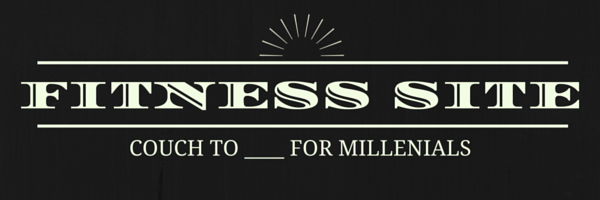
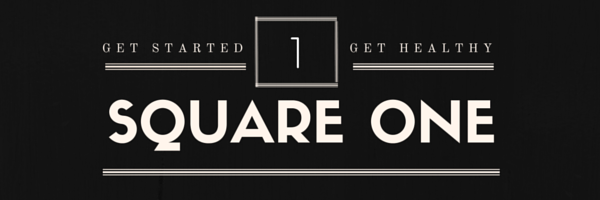
Final Update
Firefox bug, new name, header

Changed region(s): [[0.03, 0.06, 0.99, 0.81], [0.15, 0.84, 0.84, 0.9]]

diff --git a/diet.html b/diet.html
@@ -16,18 +16,18 @@
 	<head profile="http://www.w3.org/2005/10/profile">
 <link rel="icon" 
       type="image/png" 
-      href="images\favicon.png">
+      href="images/favicon.png">
   </head>
   <body>
   <div id="banner">
-  <img src="images\ex_banner.png" alt="Fitness Site">
+  <img src="images/ex_banner.png" alt="Fitness Site">
   </div>
   <div id="wrapper">
      <div id="sidebar">
 			<div id="d1"><a href="index.html"><h1 style="text-decoration: none">Home</h1></a></div>
 			<div id="d2"><a href="stretching.html"><h1 style="text-decoration: none">Stretching</h1></a>
-			<div><a href="stretching.html#officestretch"><h2>Gym Routine</h2></a></div>
-				<div><a href="stretching.html#gymstretch"><h2>Office Routine</h2></a></div>
+			<div><a href="stretching.html#gymstretch"><h2>Gym Routine</h2></a></div>
+				<div><a href="stretching.html#officestretch"><h2>Office Routine</h2></a></div>
 				</div>
 			<div id="d3"><a href="exercise.html"><h1>Exercise</h1></a></div>
 			<div id="d4"><a href="lifestyle.html"><h1>Lifestyle</h1></a></div>
@@ -51,7 +51,7 @@
 		<div class="groupA">
 		<p style="float:left; width:48%; padding-right: 2%;">Those looking to <b>build muscle</b> should have a diet consisting of 25-50% protein, 30-60% carbohydrates, and 10-20% fats. This diet should be combined with rigorous strength training as detailed in <a href="exercise.html">Exercise</a>.
 		Building muscle depends as heavily on your workouts as your commitment to your diet. Maximizing your gains will depend on how you <a href="DietBuff.html" alt="Building Muscle Diet Plan"> manage your calories</a>.</p>
-		<img style="float:right; width:48%;" src="images\plate_gain.png" alt="Plate" >
+		<img style="float:right; width:48%;" src="images/plate_gain.png" alt="Plate" >
 		</div>
 		
 		<hr>
@@ -59,14 +59,14 @@
 		<div class="groupB">
 		<p style="float:right; width:48%;">Those looking to <b>lose fat</b> should have a diet consisting of 50% protein, 35% carbohydrates, and 15% fats. This diet should be combined with regular, strenuous cardiovascular training as detailed in <a href="exercise.html">Exercise</a>.
 		Your diet plan will be all about <a href="DietSlim.html" alt="Slim Down Diet">timing, consistency, and portion control</a>.</p>
-		<img style="float:left; width:48%; padding-right: 2%;" src="images\plate_loss.png" alt="Plate" >
+		<img style="float:left; width:48%; padding-right: 2%;" src="images/plate_loss.png" alt="Plate" >
 		</div>
 		
 		<hr>
 		
 		<div class="groupC">
 		<p style="float:left; width:48%;">Those looking to <b>maintain their fitness</b> should have a diet consisting of 30% protein, 45% carbohydrates, and 25% fats. This diet should be combined with regular exercise and stretching as detailed in <a href="exercise.html">Exercise</a> and <a href="lifestyle.html">Stretching</a>.</p>
-		<img style="float:right; width:48%; padding-left: 2%;" src="images\plate_main.png" alt="Plate" >
+		<img style="float:right; width:48%; padding-left: 2%;" src="images/plate_main.png" alt="Plate" >
 		</div>
 	
 </div>

diff --git a/exercise.html b/exercise.html
@@ -17,18 +17,18 @@
 	<head profile="http://www.w3.org/2005/10/profile">
 <link rel="icon" 
       type="image/png" 
-      href="images\favicon.png">
+      href="images/favicon.png">
   </head>
   <body>
   <div id="banner">
-  <img src="images\ex_banner.png" alt="Fitness Site">
+  <img src="images/ex_banner.png" alt="Fitness Site">
   </div>
   <div id="wrapper">
 			 <div id="sidebar">
 			<div id="d1"><a href="index.html"><h1 style="text-decoration: none">Home</h1></a></div>
 			<div id="d2"><a href="stretching.html"><h1 style="text-decoration: none">Stretching</h1></a>
-			<div><a href="stretching.html#officestretch"><h2>Gym Routine</h2></a></div>
-				<div><a href="stretching.html#gymstretch"><h2>Office Routine</h2></a></div>
+			<div><a href="stretching.html#gymstretch"><h2>Gym Routine</h2></a></div>
+				<div><a href="stretching.html#officestretch"><h2>Office Routine</h2></a></div>
 				</div>
 			<div id="d3"><a href="exercise.html"><h1>Exercise</h1></a></div>
 			<div id="d4"><a href="lifestyle.html"><h1>Lifestyle</h1></a></div>
@@ -40,10 +40,11 @@
 	</div>
 	
 			<div id="main">
-				<h1> Exercise </h1>
+				<h1 style="text-align: center;"> Exercise </h1>
 				<p>The benefits of exercising are endless! It increases your physical and mental health, decreases your stress levels, increases your metabolism and fat loss, and elevates all of the “feel good” hormones in your body (so you walk around feeling like a million bucks).</p> 
 
-				<p>This page will help you out with how to create (or program) different workouts depending on what your goals are. </p>
+				<p>This page will help you out with how to create (or program) different workouts depending on what your goals are. A good way to visualize the efficiency of different exercises can be viewed <a href="images/scatter1.png">here</a>.</p>
+				
 						<div style="background-color:#181818; color: white; width:48%; float: left; text-align:center; padding: 5px; padding-bottom: 0px; height: 450px;">
 							<h2 style="font-family: 'Oswald', sans-serif;"> BUFF UP </h2>
 							<p><b>Monday</b>: Legs and Core
@@ -76,6 +77,7 @@
 							<p><b>Lose Weight</b>: Add cross-training to your weekly workouts to <a href="http://www.runnersworld.com/weight-loss/mix-your-routine-new-types-workouts">shed some extra pounds</a>.</p>
 							<p><b>Prevent Injury</b>: Cross-training <a href="http://www.runnersworld.com/workouts/injury-free-approach-cross-training">prevents injuries—as long as you take a healthy approach</a>.</p>
 						</div>
+						
 				</div>
 		</div>
 <div id="footer">

diff --git a/lifestyle.html b/lifestyle.html
@@ -21,18 +21,18 @@
     <script src="scripts.js"></script>
 	<link rel="icon" 
       type="image/png" 
-      href="images\favicon.png">
+      href="images/favicon.png">
   </head>
   <body>
   <div id="banner">
-  <img src="images\ex_banner.png" alt="Fitness Site">
+  <img src="images/ex_banner.png" alt="Fitness Site">
   </div>
   <div id="wrapper">
     <div id="sidebar">
 			<div id="d1"><a href="index.html"><h1 style="text-decoration: none">Home</h1></a></div>
 			<div id="d2"><a href="stretching.html"><h1 style="text-decoration: none">Stretching</h1></a>
-			<div><a href="stretching.html#officestretch"><h2>Gym Routine</h2></a></div>
-				<div><a href="stretching.html#gymstretch"><h2>Office Routine</h2></a></div>
+			<div><a href="stretching.html#gymstretch"><h2>Gym Routine</h2></a></div>
+				<div><a href="stretching.html#officestretch"><h2>Office Routine</h2></a></div>
 				</div>
 			<div id="d3"><a href="exercise.html"><h1>Exercise</h1></a></div>
 			<div id="d4"><a href="lifestyle.html"><h1>Lifestyle</h1></a></div>
@@ -43,7 +43,13 @@
 			<div id="d7"><a href="faq.html"><h1>FAQ</h1></a></div>
 	</div>
 	<div id="main">
+	<h1 style="text-align: center;">Healthy Lifestyle</h1>
 	 <p>Every hard-working adult is stressed and sleep deprived. We get it - It just happens. But, not managing your stress and neglecting your sleep habits may be wreaking havoc on your body. The trick is to make sure you have a good balance and recognize when you’re over-exerting your body so that you can plan some relaxing time.</p>
+		<hr>
+		<div style="text-align:center; width: 100%; padding-top: 20px;">
+			<h2> How Stress and Lack of Sleep Affect the Body </h2>
+			<img src="images/stress.png" alt="Body Under Stress" style="align: center">
+		</div>
 		<hr>
 		<div style="width:49%; float: left; background-color: #ED6639; border: solid 1px #181818; height: 600px;">
 		<h1 style="text-align:center">Stress</h1>
@@ -57,10 +63,7 @@
 
 Each adult is different when it comes to the amount of sleep. The average adult is built to stay awake for 16 hours and sleep for 8. However some adults can function perfectly on 6 hours of sleep, while others need 10 hours. It’s safe to say anywhere between 6-8 hours is a “good amount” to get each night. </p>
 		</div>
-		<div style="text-align:center; width: 100%; padding-top: 20px;">
-			<h2> How Stress and Lack of Sleep Affect the Body </h2>
-			<img src="images\stress.png" alt="Body Under Stress" style="align: center">
-		</div>
+		
 	</div>
 	</div>
 	<div id="footer">

diff --git a/index.html b/index.html
@@ -18,18 +18,18 @@
 	<head profile="http://www.w3.org/2005/10/profile">
 <link rel="icon" 
       type="image/png" 
-      href="images\favicon.png">
+      href="images/favicon.png">
   </head>
   <body>
   <div id="banner">
-  <img src="images\ex_banner.png" alt="Fitness Site">
+  <img src="images/ex_banner.png" alt="Fitness Site">
   </div>
   <div id="wrapper">
     <div id="sidebar">
 			<div id="d1"><a href="index.html"><h1 style="text-decoration: none">Home</h1></a></div>
 			<div id="d2"><a href="stretching.html"><h1 style="text-decoration: none">Stretching</h1></a>
-			<div><a href="stretching.html#officestretch"><h2>Gym Routine</h2></a></div>
-				<div><a href="stretching.html#gymstretch"><h2>Office Routine</h2></a></div>
+			<div><a href="stretching.html#gymstretch"><h2>Gym Routine</h2></a></div>
+				<div><a href="stretching.html#officestretch"><h2>Office Routine</h2></a></div>
 				</div>
 			<div id="d3"><a href="exercise.html"><h1>Exercise</h1></a></div>
 			<div id="d4"><a href="lifestyle.html"><h1>Lifestyle</h1></a></div>
@@ -41,7 +41,7 @@
 	</div>
 	
 	<div id="main">
-	<p>Welcome to (title of site)! We’re glad you’re here. 
+	<p>Welcome to Square One! We’re glad you’re here. 
 
 The purpose of this site is to educate you and demonstrate the importance of balancing work, life, exercise, and proper nutrition to the busy, hard-working adult. 
 </p>

diff --git a/DietSlim.html b/DietSlim.html
@@ -16,18 +16,18 @@
 	<head profile="http://www.w3.org/2005/10/profile">
 <link rel="icon" 
       type="image/png" 
-      href="images\favicon.png">
+      href="images/favicon.png">
   </head>
   <body>
   <div id="banner">
-  <img src="images\ex_banner.png" alt="Fitness Site"/>
+  <img src="images/ex_banner.png" alt="Fitness Site"/>
   </div>
   <div id="wrapper">
-     <div id="sidebar">
+    <div id="sidebar">
 			<div id="d1"><a href="index.html"><h1 style="text-decoration: none">Home</h1></a></div>
 			<div id="d2"><a href="stretching.html"><h1 style="text-decoration: none">Stretching</h1></a>
-			<div><a href="stretching.html#officestretch"><h2>Gym Routine</h2></a></div>
-				<div><a href="stretching.html#gymstretch"><h2>Office Routine</h2></a></div>
+			<div><a href="stretching.html#gymstretch"><h2>Gym Routine</h2></a></div>
+				<div><a href="stretching.html#officestretch"><h2>Office Routine</h2></a></div>
 				</div>
 			<div id="d3"><a href="exercise.html"><h1>Exercise</h1></a></div>
 			<div id="d4"><a href="lifestyle.html"><h1>Lifestyle</h1></a></div>

diff --git a/DietBuff.html b/DietBuff.html
@@ -17,18 +17,18 @@
 	<head profile="http://www.w3.org/2005/10/profile">
 <link rel="icon" 
       type="image/png" 
-      href="images\favicon.png">
+      href="images/favicon.png">
   </head>
   <body>
   <div id="banner">
-  <img src="images\ex_banner.png" alt="Fitness Site"/>
+  <img src="images/ex_banner.png" alt="Fitness Site"/>
   </div>
   <div id="wrapper">
      <div id="sidebar">
 			<div id="d1"><a href="index.html"><h1 style="text-decoration: none">Home</h1></a></div>
 			<div id="d2"><a href="stretching.html"><h1 style="text-decoration: none">Stretching</h1></a>
-			<div><a href="stretching.html#officestretch"><h2>Gym Routine</h2></a></div>
-				<div><a href="stretching.html#gymstretch"><h2>Office Routine</h2></a></div>
+			<div><a href="stretching.html#gymstretch"><h2>Gym Routine</h2></a></div>
+				<div><a href="stretching.html#officestretch"><h2>Office Routine</h2></a></div>
 				</div>
 			<div id="d3"><a href="exercise.html"><h1>Exercise</h1></a></div>
 			<div id="d4"><a href="lifestyle.html"><h1>Lifestyle</h1></a></div>

diff --git a/faq.html b/faq.html
@@ -16,18 +16,18 @@
 	<head profile="http://www.w3.org/2005/10/profile">
 <link rel="icon" 
       type="image/png" 
-      href="images\favicon.png">
+      href="images/favicon.png">
   </head>
   <body>
   <div id="banner">
-  <img src="images\ex_banner.png" alt="Fitness Site"/>
+  <img src="images/ex_banner.png" alt="Fitness Site"/>
   </div>
   <div id="wrapper">
      <div id="sidebar">
 			<div id="d1"><a href="index.html"><h1 style="text-decoration: none">Home</h1></a></div>
 			<div id="d2"><a href="stretching.html"><h1 style="text-decoration: none">Stretching</h1></a>
-			<div><a href="stretching.html#officestretch"><h2>Gym Routine</h2></a></div>
-				<div><a href="stretching.html#gymstretch"><h2>Office Routine</h2></a></div>
+			<div><a href="stretching.html#gymstretch"><h2>Gym Routine</h2></a></div>
+				<div><a href="stretching.html#officestretch"><h2>Office Routine</h2></a></div>
 				</div>
 			<div id="d3"><a href="exercise.html"><h1>Exercise</h1></a></div>
 			<div id="d4"><a href="lifestyle.html"><h1>Lifestyle</h1></a></div>

diff --git a/shapes.css b/shapes.css
@@ -1,10 +1,10 @@
-#a1 { width: 230px; height: 230px; background: #385B9F; } 
-#a2 { width: 230px; height: 230px; background: #7F909A; } 
-#a3 { width: 230px; height: 230px; background: #385B9F; } 
+#a1 { width: 230px; height: 130px; background: #385B9F; } 
+#a2 { width: 230px; height: 130px; background: #7F909A; } 
+#a3 { width: 230px; height: 130px; background: #385B9F; } 
 
-#b1 { width: 230px; height: 230px; background: #ED6639; }
-#b2 { width: 230px; height: 230px; background: #385B9F; }
-#b3 { width: 230px; height: 230px; background: #ED6639; }
+#b1 { width: 230px; height: 130px; background: #ED6639; }
+#b2 { width: 230px; height: 130px; background: #385B9F; }
+#b3 { width: 230px; height: 130px; background: #ED6639; }
 
 
 

diff --git a/scripts.js b/scripts.js
@@ -21,13 +21,13 @@ $(document).ready(function(){
 	$('#sidebar div').mouseleave(function(){
 		$(this).css('cursor', 'default');
 	});
-	$("#d2-a, #d2-b, #d3-a, #d3-b").hide();
 	
-	$("#d2").hover(function(){
-		$("#d2-a, #d2-b").show();
+
+	$(function() {
+		$("#d6").menu();
 	});
 	
-	$("#d6 div").hide();
+$("#d6 div").hide();
 
 $("#d6").mouseenter(function(){
 	$(this).children().show('medium');
@@ -46,6 +46,8 @@ $("#d2").mouseenter(function(){
 $("#d2").mouseleave(function(){
 	$(this).children('div').hide('medium');
 });
+
+
 
 	
 	

diff --git a/main.css b/main.css
@@ -17,9 +17,12 @@ body {
 	background-color: #181818;
 	max-height: 288px;
 	
+	
 }
 
 #banner img {
+	margin-left: 36px;
+	
 }
 
 #main {
@@ -50,8 +53,8 @@ body {
 	margin: auto;
 }
 
-#wall p{
-	margin-top: auto;
+#wall h4{
+	margin-top: 20px;
 	margin-bottom: auto;
 	text-align: center;
 }
